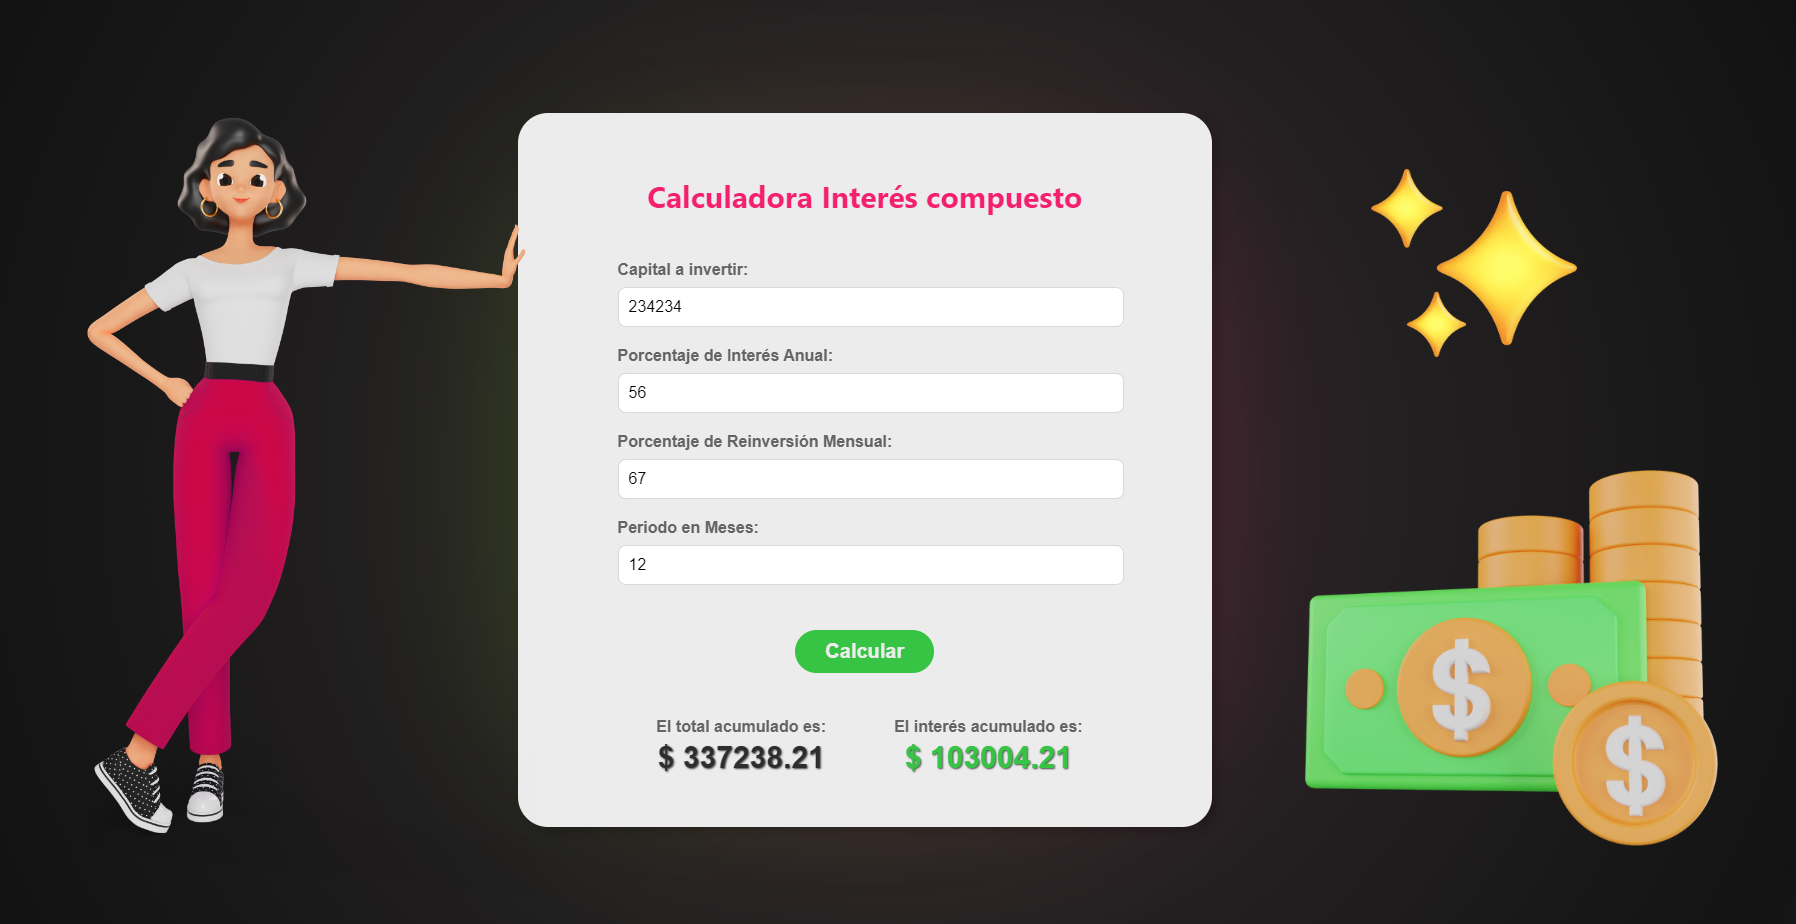
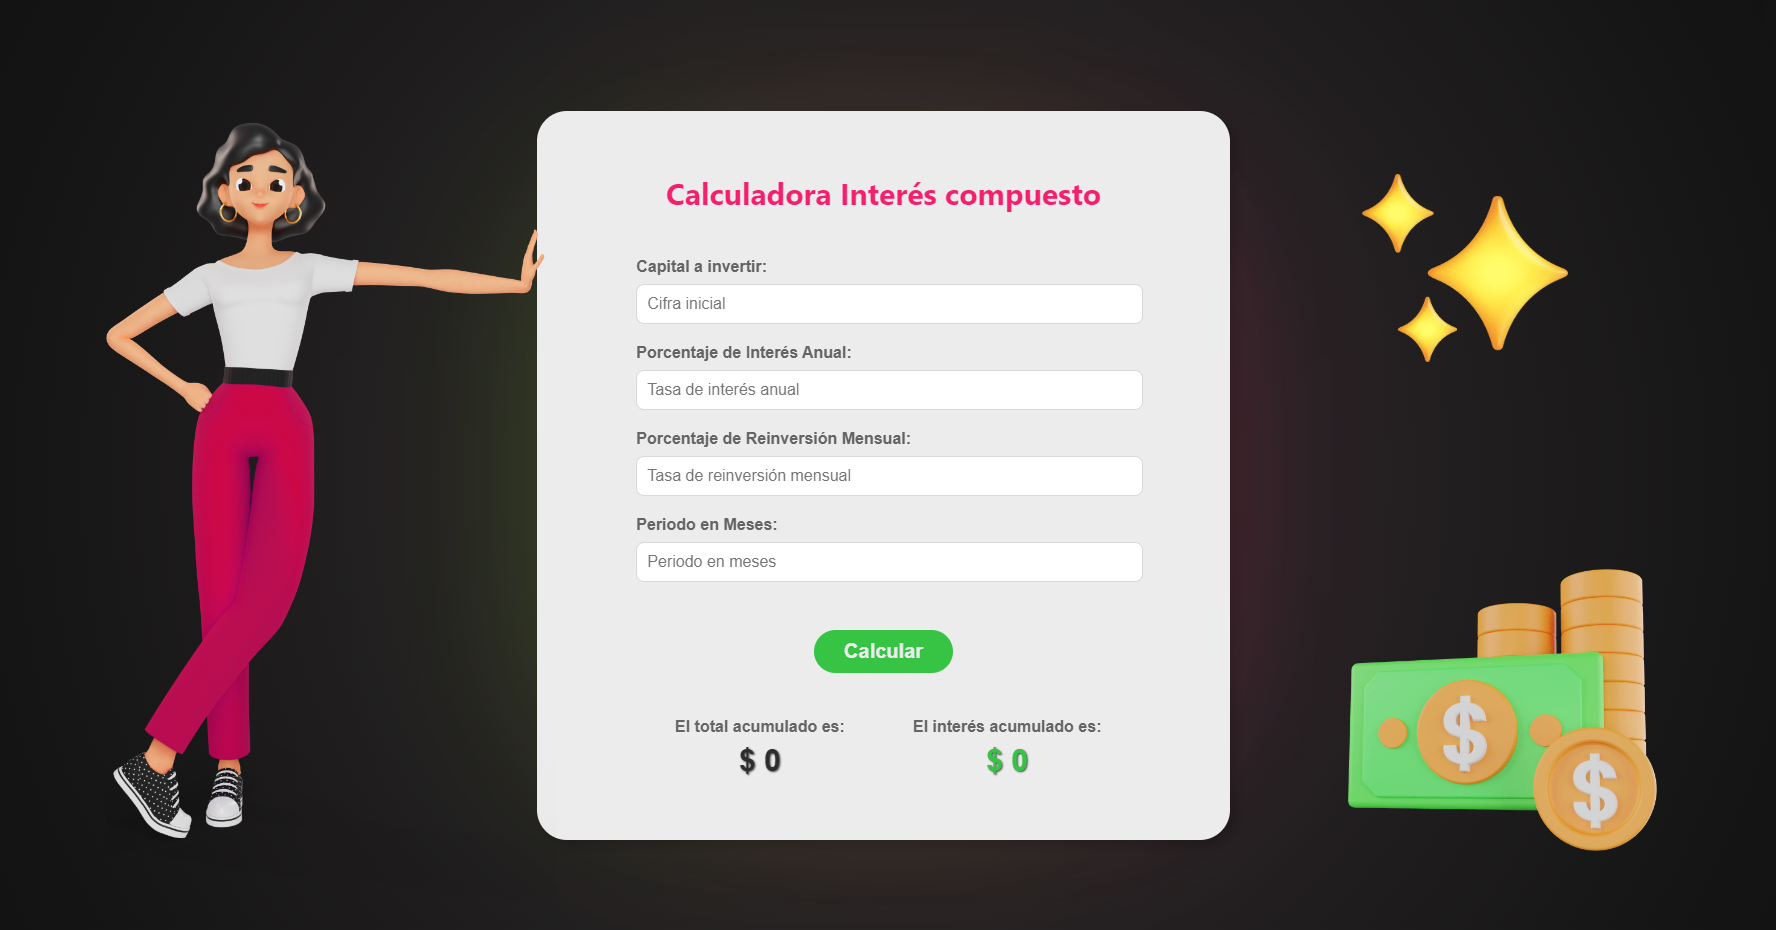
estilos

diff --git a/style.css b/style.css
@@ -27,6 +27,7 @@ body {
 
 .imgs {
     height: 40vw;
+    width: 25vw;
     display: flex;
     flex-direction: column;
     justify-content: space-between;
@@ -40,7 +41,7 @@ body {
 }
 
 .imgSec {
-    height: 20vw;
+    height: 15vw;
     margin: 0 3vw;
     position: relative;
     left: 2vw;
@@ -99,7 +100,7 @@ button:hover ~ .cursor {
 
 .calculator div {
     width: 100%;
-    margin: 0 0 5px;
+    margin: 0 0 8px;
 }
   
 label {
